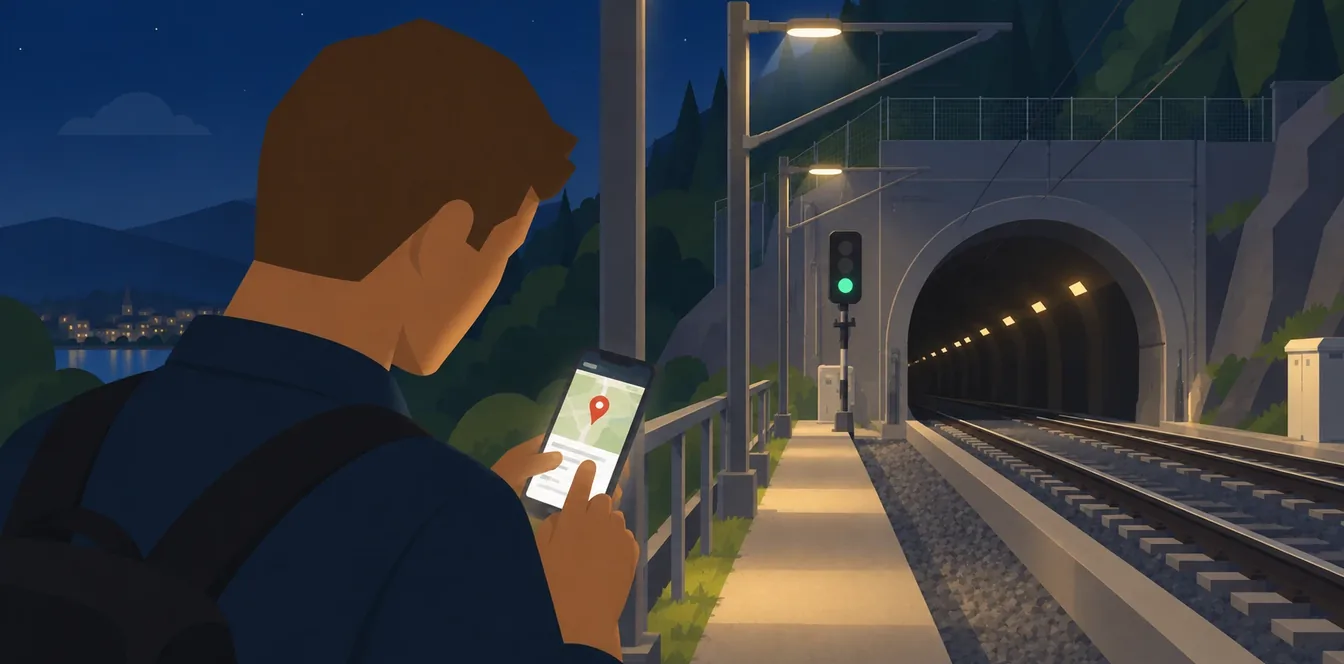
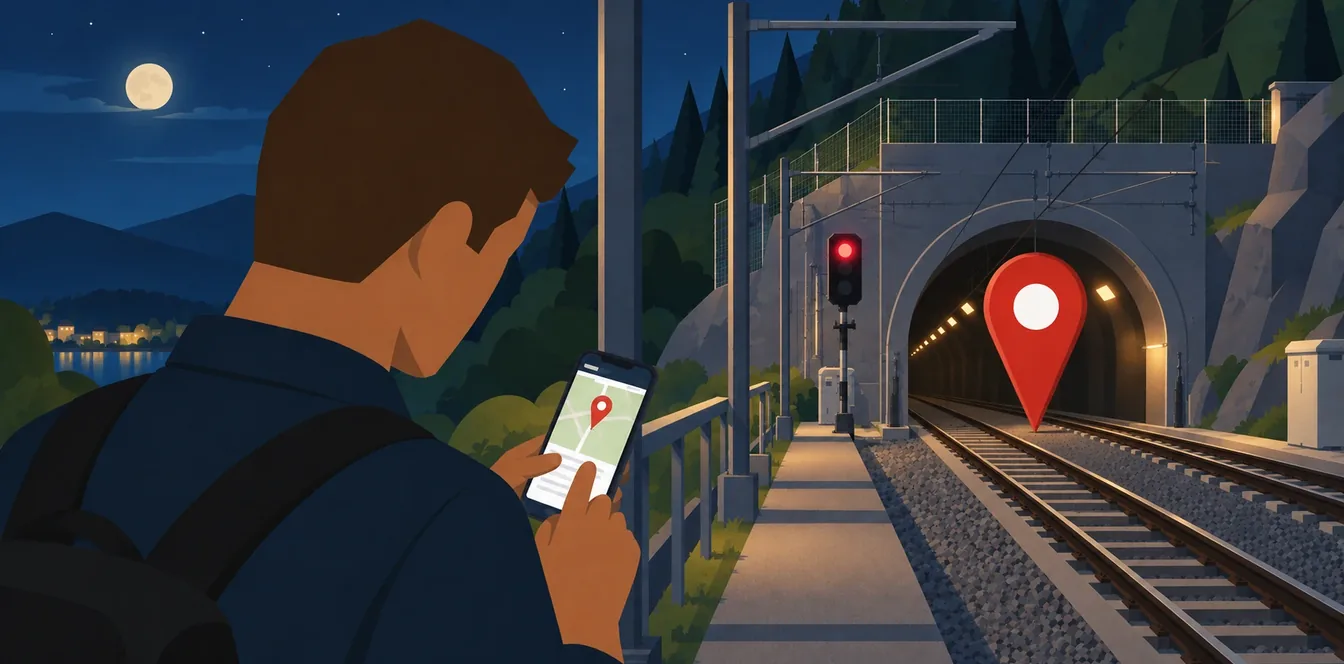
Neues Auftaktbild für «Standort», am Tag und in der Nacht
1774 × 887 auf 1344 × 664 (oben 3, unten 5 Bildpunkte weg).

diff --git a/app/src/komponenten/Kopf.tsx b/app/src/komponenten/Kopf.tsx
@@ -59,7 +59,7 @@ const BILDER: Partial<Record<Bereich | 'anleitung' | 'start', AuftaktBild>> = {
   },
   standort: {
     hell: standortHell, dunkel: standortDunkel, breite: 1344, hoehe: 664,
-    alt: 'Illustration: Ein Mann schaut neben dem Gleis auf eine Karte in seinem Handy, vor ihm ein Tunnelportal mit Signal, links ein See.',
+    alt: 'Illustration: Ein Mann schaut neben dem Gleis auf eine Karte in seinem Handy, vor ihm ein Tunnelportal mit einer roten Ortsmarke, links ein See.',
   },
   duell: {
     hell: duellHell, dunkel: duellDunkel, breite: 1344, hoehe: 664,
